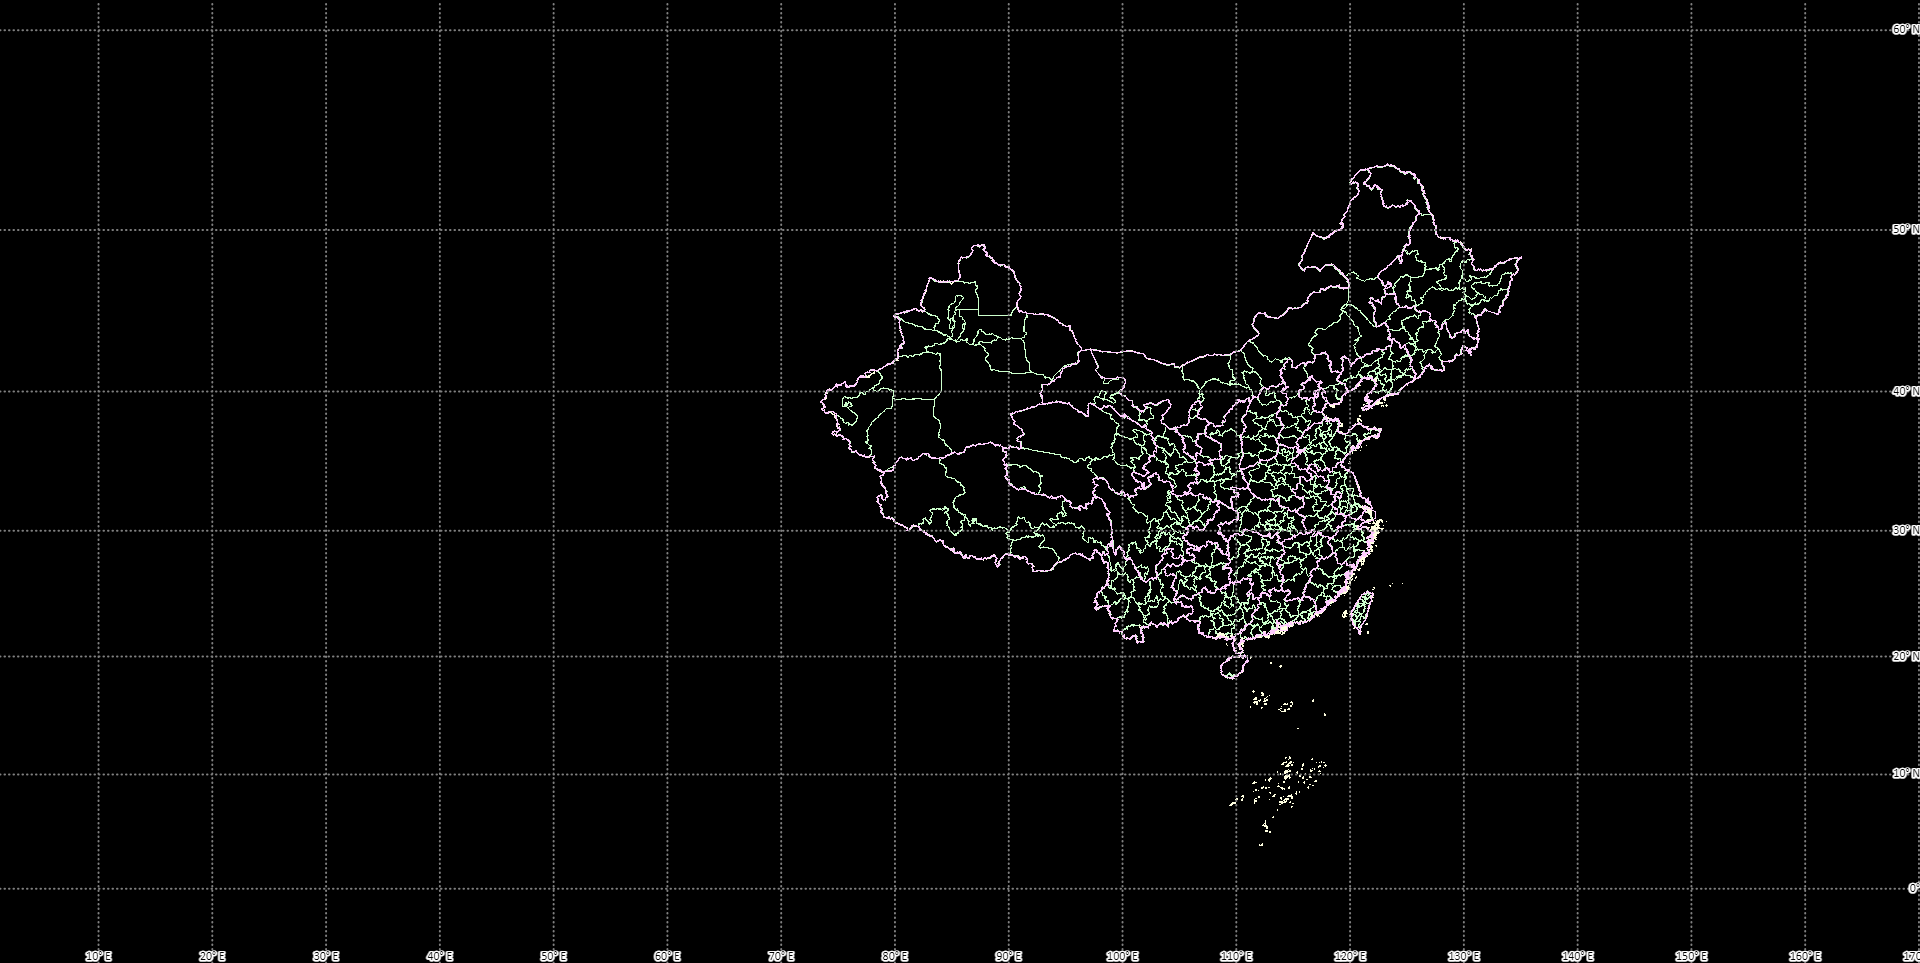
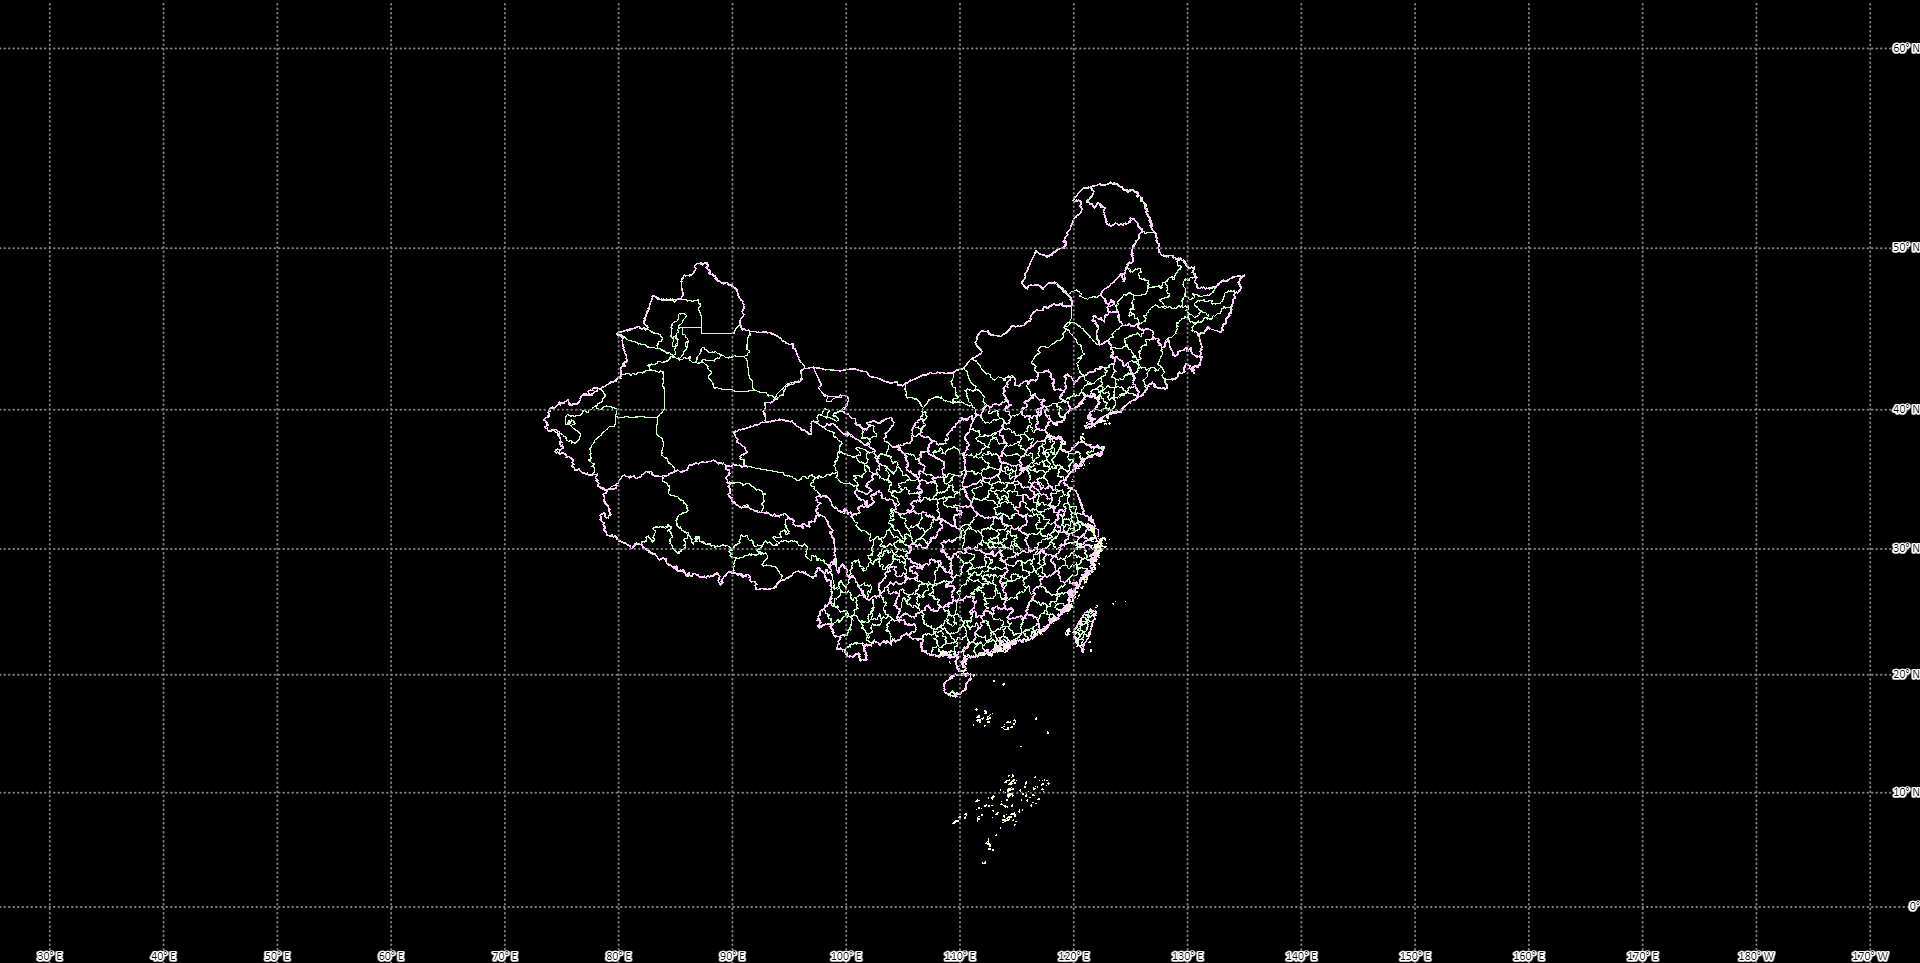
update README.md

diff --git a/README.md b/README.md
@@ -56,7 +56,7 @@ function App() {
         ],
 
         view: new View({
-          center: fromLonLat([85.71555979241059,33.677302290730594]),
+          center: fromLonLat([110, 35]),
           zoom: 4,
         }),
       });
